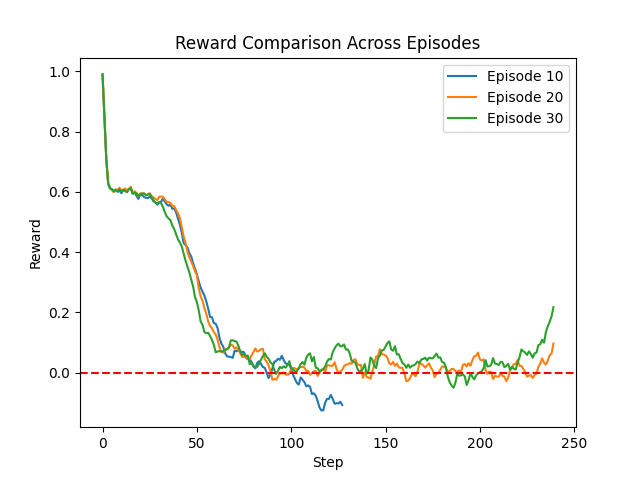
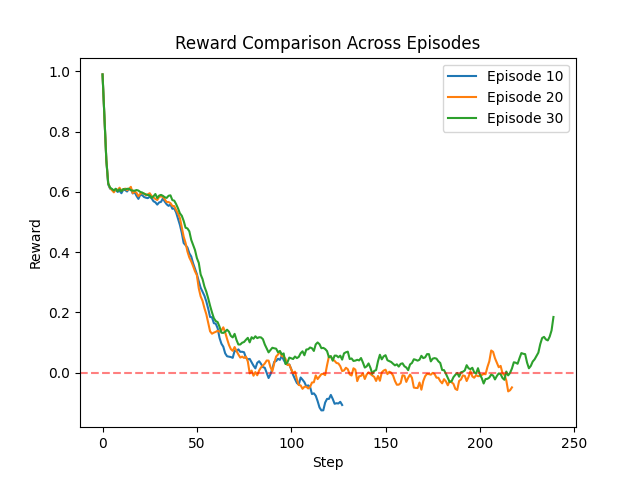
mid day commit

Changed region(s): [[0.1875, 0.375, 0.875, 0.8125]]

diff --git a/single_ramp/train.py b/single_ramp/train.py
@@ -13,13 +13,13 @@ from config import (
 from env import RampMeterEnv
 from controllers import RLController
 from runner import run_episode
-from utils import normalize_static
+from utils import normalize_static, normalize_dynamic
 from model import SharedActorCritic
 from ppo_loss import compute_gae, ppo_update
 from stats import RunningStat
 from live_plot import init_plot, update_live_plot
 
-def train(use_replacement, seed, num_episodes):
+def train(use_replacement, seed, num_episodes, dynamic_norm):
     model_dir = "models_replacement" if use_replacement else "models"
     os.makedirs(model_dir, exist_ok=True)
 
@@ -39,15 +39,19 @@ def train(use_replacement, seed, num_episodes):
     optimizer = torch.optim.Adam(agent.parameters(), lr=3e-4)
     state_tracker = RunningStat(shape=(STATE_DIM,))
 
+    normalize_fnc = normalize_static
+    if dynamic_norm:
+        normalize_fnc = normalize_dynamic
+
     controller = RLController(
         agent=agent,
         state_tracker=state_tracker,
-        normalize_fnc=normalize_static,
+        normalize_fnc=normalize_fnc,
         use_replacement=use_replacement
     )
 
     line, ax, fig = init_plot(use_replacement)
-    all_scores, history_steps, history_lengths, history_tts = [], [], [], []
+    all_scores, history_steps, history_lengths, history_tts, history_replacement = [], [], [], [], []
     reward_history = {}
     cumulative_steps = 0
 
@@ -55,7 +59,7 @@ def train(use_replacement, seed, num_episodes):
         env.start()
 
         # Execute the episode using the runner
-        trajectory, history, _ = run_episode(
+        trajectory, history, _, replacement_pct = run_episode(
             env=env,
             controller=controller,
             control_steps=CONTROL_STEPS_PER_EPISODE,
@@ -88,6 +92,7 @@ def train(use_replacement, seed, num_episodes):
         history_steps.append(cumulative_steps)
         history_lengths.append(len(rewards))
         history_tts.append(history["tts_total"])
+        history_replacement.append(replacement_pct)
 
         update_live_plot(all_scores, line, ax, fig)
         print(f"Episode {episode} | Reward: {total_reward:.2f} | Steps: {len(rewards)} | TTS: {history['tts_total']:.0f}")
@@ -102,7 +107,7 @@ def train(use_replacement, seed, num_episodes):
                 ax_reward.plot(np.arange(len(rew)), rew, label=f"Episode {ep}")
 
             ax_reward.legend()
-            ax_reward.axhline(0, linestyle="--", color="r", alpha='0.5')
+            ax_reward.axhline(0, linestyle="--", color="r", alpha=0.5)
             ax_reward.set_xlabel("Step")
             ax_reward.set_ylabel("Reward")
             ax_reward.set_title("Reward Comparison Across Episodes")
@@ -118,7 +123,8 @@ def train(use_replacement, seed, num_episodes):
     with open(os.path.join(model_dir, f"training_history_{file_prefix}_seed{seed}.pkl"), "wb") as f:
         pickle.dump({
             "scores": all_scores, "steps": history_steps,
-            "lengths": history_lengths, "tts": history_tts
+            "lengths": history_lengths, "tts": history_tts,
+            "replacement_pct": history_replacement
         }, f)
 
     plt.ioff()
@@ -127,6 +133,7 @@ def train(use_replacement, seed, num_episodes):
 if __name__ == "__main__":
     parser = argparse.ArgumentParser()
     parser.add_argument("--use_replacement", action="store_true")
+    parser.add_argument("--dynamic_norm", action="store_true")
     parser.add_argument("--seed", type=int, default=42)
     parser.add_argument("--num_episodes", type=int, default=100)
     args = parser.parse_args()
@@ -135,4 +142,4 @@ if __name__ == "__main__":
     np.random.seed(args.seed)
     torch.manual_seed(args.seed)
 
-    train(args.use_replacement, args.seed, args.num_episodes)
+    train(args.use_replacement, args.seed, args.num_episodes, args.dynamic_norm)

diff --git a/single_ramp/runner.py b/single_ramp/runner.py
@@ -5,6 +5,7 @@ from config import MAX_TTS, AVG_TTS
 def run_episode(env, controller, control_steps, sim_steps_per_control, is_training=False):
     trajectory = {"states": [], "actions": [], "log_probs": [], "values": [], "rewards": [], "dones": []}
     history = {"green_times": [], "queues": [], "downstream_speeds": [], "tts_total": 0}
+    num_replacements = 0
 
     # Bootstrap initial state
     env.apply_action_and_get_tts(sim_steps_per_control, 0)
@@ -15,7 +16,7 @@ def run_episode(env, controller, control_steps, sim_steps_per_control, is_traini
 
     for step in range(control_steps):
         # 1. Get action from controller
-        action_ratio, log_prob, value, raw_action, state_tensor = controller.execute_control(raw_state, is_training)
+        action_ratio, log_prob, value, raw_action, state_tensor, replaced = controller.execute_control(raw_state, is_training)
 
         green_duration = int(action_ratio * sim_steps_per_control)
         red_duration = sim_steps_per_control - green_duration
@@ -38,6 +39,7 @@ def run_episode(env, controller, control_steps, sim_steps_per_control, is_traini
         history["green_times"].append(green_duration)
         history["queues"].append(final_queue)
         history["downstream_speeds"].append(next_state_dict["downstream"]["speed"])
+        num_replacements += replaced
 
         if is_training:
             trajectory["states"].append(state_tensor)
@@ -52,8 +54,8 @@ def run_episode(env, controller, control_steps, sim_steps_per_control, is_traini
         if done:
             break
 
-    mean_reward = np.mean(trajectory["rewards"])
+    # mean_reward = np.mean(trajectory["rewards"])
     num_steps = len(history["green_times"])
-    print(f"\n\n AVERAGE REWARD ({num_steps}): {mean_reward}\n")
+    # print(f"\n\n AVERAGE REWARD ({num_steps}): {mean_reward}\n")
 
-    return trajectory, history, raw_state
+    return trajectory, history, raw_state, (num_replacements/num_steps)*100

diff --git a/single_ramp/controllers.py b/single_ramp/controllers.py
@@ -7,7 +7,7 @@ class BaseController:
 
 class NoControlBaseline(BaseController):
     def execute_control(self, raw_state_list, is_training=False):
-        return 1.0, None, None, None, None  # 100% green ratio
+        return 1.0, None, None, None, None, False  # 100% green ratio
 
 class PiAlineaController(BaseController):
     def __init__(self, target_occ=14.0, k_r=90.0, k_p=10.0, min_ratio=0.1, max_ratio=1.0, sim_steps_per_control=15.0):
@@ -41,7 +41,7 @@ class PiAlineaController(BaseController):
         # Clamp between minimum and maximum allowed ratios
         action_ratio = max(self.min_ratio, min(self.max_ratio, action_ratio))
 
-        return action_ratio, None, None, None, None
+        return action_ratio, None, None, None, None, False
 
 class RLController(BaseController):
     def __init__(self, agent, state_tracker, normalize_fnc, use_replacement=False):
@@ -53,6 +53,7 @@ class RLController(BaseController):
     def execute_control(self, raw_state_list, is_training=False):
         state = self.normalize_fnc(raw_state_list, self.state_tracker)
         state_tensor = torch.FloatTensor(state).unsqueeze(0)
+        replaced = 0
 
         with torch.no_grad():
             dist, value = self.agent(state_tensor)
@@ -64,6 +65,7 @@ class RLController(BaseController):
             prev_demand = raw_state_list[7]  # index 7 is ramp_arr
             curr_queue = raw_state_list[6]   # index 6 is queue length
             lower_bound = calculate_lower_bound(prev_demand, curr_queue)
+            replaced = int(action_ratio < lower_bound)
             action_ratio = max(action_ratio, lower_bound)
 
-        return action_ratio, log_prob, value, action, state_tensor
+        return action_ratio, log_prob, value, action, state_tensor, replaced

diff --git a/single_ramp/replicate_graphs/plot_figure10.py b/single_ramp/replicate_graphs/plot_figure10.py
@@ -1,17 +1,20 @@
 import os
 import pickle
 import matplotlib.pyplot as plt
+import sys
+
+sys.path.append(os.path.abspath(os.path.join(os.path.dirname(__file__), '..')))
+
+from config import REPLACEMENT_HISTORY_PATH
 
 def plot_replacement_percentage():
-    replacement_path = os.path.join(r"C:\Users","pbarry","Documents","2025_yang_dqn","with_traffic_light","paper_model","models", "training_history_replacement.pkl")
-
     # Load data
-    with open(replacement_path, "rb") as f:
+    with open(REPLACEMENT_HISTORY_PATH, "rb") as f:
         data = pickle.load(f)
 
     fig, ax = plt.subplots(figsize=(10, 6))
 
-    # Plot the replacement percentage (red line like the paper)
+    # Plot the replacement percentage
     ax.plot(
         data["steps"],
         data["replacement_pct"],
@@ -24,7 +27,6 @@ def plot_replacement_percentage():
     ax.set_ylim(-1, 25)
     ax.set_yticks([0, 5, 10, 15, 20, 25])
 
-    # Adjust X-axis limit based on how many steps you actually simulated
     max_step = max(data["steps"])
     ax.set_xlim(-5000, max_step + 5000)
 
@@ -34,7 +36,8 @@ def plot_replacement_percentage():
     ax.grid(True, linestyle="--", alpha=0.5)
 
     plt.tight_layout()
-    plt.savefig(r"C:\Users\pbarry\Documents\2025_yang_dqn\with_traffic_light\paper_model\replicate_graphs\plots\fig_10.png", dpi=300, bbox_inches="tight")
+    fig_path = os.path.join("plots", "fig_10.png")
+    plt.savefig(fig_path, dpi=300, bbox_inches="tight")
     plt.show()
 
 if __name__ == "__main__":

diff --git a/single_ramp/replicate_graphs/plot_figure7.py b/single_ramp/replicate_graphs/plot_figure7.py
@@ -4,11 +4,14 @@ import numpy as np
 import pandas as pd
 import seaborn as sns
 import matplotlib.pyplot as plt
+import sys
+
+sys.path.append(os.path.abspath(os.path.join(os.path.dirname(__file__), '..', '..')))
 
 # --- Configuration ---
-SUMO_NET_FILE = os.path.join(r"C:\Users","pbarry","Documents","2025_yang_dqn","with_traffic_light","sumo_network","data", "network.net.xml") # Update if needed
-SUMO_ROU_FILE = os.path.join(r"C:\Users","pbarry","Documents","2025_yang_dqn","with_traffic_light","sumo_network","data", "dynamic_routes.rou.xml")
-SUMO_CFG_FILE = os.path.join(r"C:\Users","pbarry","Documents","2025_yang_dqn","with_traffic_light","sumo_network","data", "simulation.sumocfg")
+SUMO_NET_FILE = os.path.join("sumo_network","data", "network.net.xml")
+SUMO_ROU_FILE = os.path.join("sumo_network","data", "dynamic_routes.rou.xml")
+SUMO_CFG_FILE = os.path.join("sumo_network","data", "simulation.sumocfg")
 
 # Grid Search Parameters (from the paper)
 MAINLINE_FLOWS = [7400, 7800, 8200, 8600, 9000, 9400]
@@ -103,7 +106,8 @@ def generate_heatmap():
     ax.xaxis.set_ticks_position('bottom')
 
     plt.tight_layout()
-    plt.savefig(r"C:\Users\pbarry\Documents\2025_yang_dqn\with_traffic_light\paper_model\replicate_graphs\plots\fig_7.png", dpi=300, bbox_inches="tight")
+    fig_path = os.path.join("plots", "fig_7.png")
+    plt.savefig(fig_path, dpi=300, bbox_inches="tight")
     plt.show()
 
 if __name__ == "__main__":

diff --git a/single_ramp/replicate_graphs/plot_figure9.py b/single_ramp/replicate_graphs/plot_figure9.py
@@ -1,16 +1,18 @@
 import os
 import pickle
 import matplotlib.pyplot as plt
+import sys
+
+sys.path.append(os.path.abspath(os.path.join(os.path.dirname(__file__), '..', '..')))
+
+from single_ramp.config import BASELINE_HISTORY_PATH, REPLACEMENT_HISTORY_PATH
 
 def plot_network_tts():
-    baseline_path = os.path.join(r"C:\Users","pbarry","Documents","2025_yang_dqn","with_traffic_light","paper_model","models", "training_history_baseline.pkl")
-    replacement_path = os.path.join(r"C:\Users","pbarry","Documents","2025_yang_dqn","with_traffic_light","paper_model","models", "training_history_replacement.pkl")
-
     # Load data
-    with open(baseline_path, "rb") as f:
+    with open(BASELINE_HISTORY_PATH, "rb") as f:
         baseline_data = pickle.load(f)
 
-    with open(replacement_path, "rb") as f:
+    with open(REPLACEMENT_HISTORY_PATH, "rb") as f:
         replacement_data = pickle.load(f)
 
     fig, ax = plt.subplots(figsize=(10, 6))
@@ -59,7 +61,8 @@ def plot_network_tts():
     )
 
     plt.tight_layout()
-    plt.savefig(r"C:\Users\pbarry\Documents\2025_yang_dqn\with_traffic_light\paper_model\replicate_graphs\plots\fig_9.png", dpi=300, bbox_inches="tight")
+    fig_path = os.path.join("plots", "fig_9.png")
+    plt.savefig(fig_path, dpi=300, bbox_inches="tight")
     plt.show()
 
 if __name__ == "__main__":

diff --git a/single_ramp/replicate_graphs/plot_figure8.py b/single_ramp/replicate_graphs/plot_figure8.py
@@ -1,16 +1,18 @@
 import os
 import pickle
 import matplotlib.pyplot as plt
+import sys
+
+sys.path.append(os.path.abspath(os.path.join(os.path.dirname(__file__), '..')))
+
+from config import BASELINE_HISTORY_PATH, REPLACEMENT_HISTORY_PATH
 
 def plot_episode_lengths():
-    baseline_path = os.path.join(r"C:\Users","pbarry","Documents","2025_yang_dqn","with_traffic_light","paper_model","models", "training_history_baseline.pkl")
-    replacement_path = os.path.join(r"C:\Users","pbarry","Documents","2025_yang_dqn","with_traffic_light","paper_model","models", "training_history_replacement.pkl")
-
     # Load data
-    with open(baseline_path, "rb") as f:
+    with open(BASELINE_HISTORY_PATH, "rb") as f:
         baseline_data = pickle.load(f)
 
-    with open(replacement_path, "rb") as f:
+    with open(REPLACEMENT_HISTORY_PATH, "rb") as f:
         replacement_data = pickle.load(f)
 
     fig, ax = plt.subplots(figsize=(10, 6))
@@ -57,7 +59,8 @@ def plot_episode_lengths():
     )
 
     plt.tight_layout()
-    plt.savefig(r"C:\Users\pbarry\Documents\2025_yang_dqn\with_traffic_light\paper_model\replicate_graphs\plots\fig_8.png", dpi=300, bbox_inches="tight")
+    fig_path = os.path.join("plots", "fig_8.png")
+    plt.savefig(fig_path, dpi=300, bbox_inches="tight")
     plt.show()
 
 if __name__ == "__main__":

diff --git a/single_ramp/replicate_graphs/plot_figure6.py b/single_ramp/replicate_graphs/plot_figure6.py
@@ -6,7 +6,7 @@ import os
 
 sys.path.append(os.path.abspath(os.path.join(os.path.dirname(__file__), '..')))
 
-from config import SUMO_PATH
+SUMO_PATH = os.path.join("..", "sumo_network", "data", "simulation.sumocfg")
 
 # =========================
 # CONFIG
@@ -15,7 +15,7 @@ from config import SUMO_PATH
 SUMO_BINARY = "sumo"     # or sumo-gui
 
 STEP_LENGTH = 1
-SIM_END = 2250
+SIM_END = 2300
 
 # background flow from paper
 q0 = 8160 / 3600.0   # veh/sec
@@ -65,6 +65,7 @@ while traci.simulation.getTime() < SIM_END:
 
     for loc, dets in detector_groups.items():
         step_count = 0
+        # before = step_count
         for det in dets:
             # FIX: Only count vehicles that have completely passed to avoid double-counting
             step_count += traci.inductionloop.getLastStepVehicleNumber(det)

diff --git a/single_ramp/train_multiple.py b/single_ramp/train_multiple.py
@@ -14,7 +14,7 @@ def run_single_experiment(args):
 
     cmd = ["python", "train.py", "--seed", str(seed), "--num_episodes", str(250)]
     if use_replacement:
-        cmd.append("--use_replacement")
+        cmd.append("--dynamic_norm")
 
     # Run silently to avoid terminal spam, only print on completion
     subprocess.run(cmd, check=True, stdout=subprocess.DEVNULL, stderr=subprocess.DEVNULL)
@@ -22,6 +22,7 @@ def run_single_experiment(args):
     return True
 
 def load_and_plot(use_replacement, color):
+    # name = "Dynamic Normalisation" if use_replacement else "Static Normalisation"
     variant = "replacement" if use_replacement else "baseline"
     model_dir = "models_replacement" if use_replacement else "models"
     all_scores = []

diff --git a/single_ramp/config.py b/single_ramp/config.py
@@ -25,3 +25,6 @@ RAMP_DEP_DETS = [f"det_ramp_dep_{i}" for i in range(2)]
 
 STATE_MEANS = np.asarray([20.3471, 18.1585, 1.9217, 8.4116, 26.6432, 4.4006, 3.4375, 0.3303, 0.33,7.5])
 STATE_STDS = np.asarray([6.9003, 4.5178, 0.1949, 1.289, 0.2667, 0.5689, 0.9812, 0.0775, 0.079, 7.5])
+
+REPLACEMENT_HISTORY_PATH = os.path.join("..", "models_replacement", "training_history_replacement_seed42.pkl")
+BASELINE_HISTORY_PATH = os.path.join("..", "models", "training_history_baseline_seed42.pkl")
